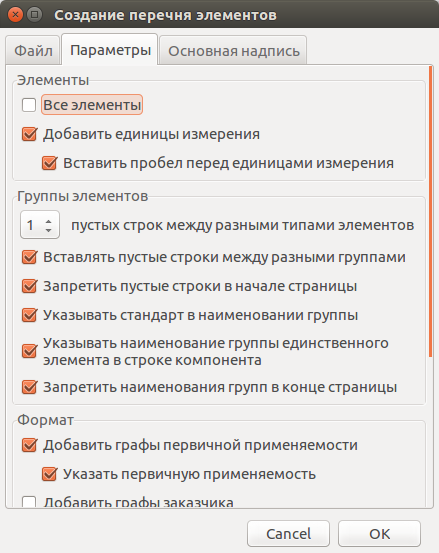
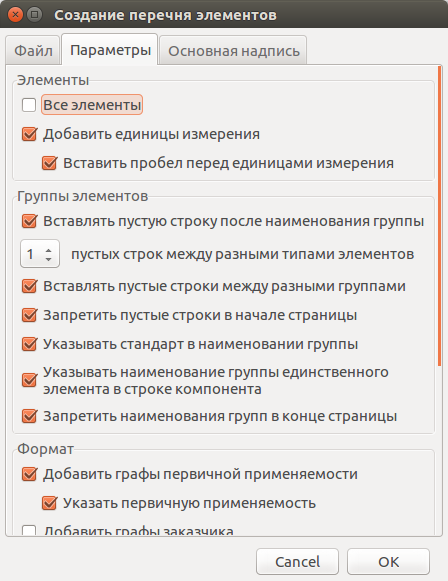
Added new option for adding empty line after group name.

Changed region(s): [[0.0, 0.0, 1.0, 0.9222], [0.5626, 0.9222, 0.9476, 1.0], [0.9772, 0.6148, 1.0, 0.6456]]

diff --git a/doc/user_manual.html b/doc/user_manual.html
@@ -2019,6 +2019,11 @@ LibreOffice Calc. А вот LibreOffice Writer такой функциональ
 часть значения будет отделена пробелом от единиц измерения с множителем.</p>
 </li>
 <li>
+<p><strong><em>Вставлять пустую строку после наименования группы</em></strong>&#8201;&#8212;&#8201;если этот
+параметр установлен, то между наименованием группы и первым её элементом будет
+вставляться одна пустая строка.</p>
+</li>
+<li>
 <p><strong><em>0..9 пустых строк между разными типами элементов</em></strong>&#8201;&#8212;&#8201;все компоненты в
 перечне группируются и сортируются по их обозначению. Между группами элементов
 с разным обозначением будет вставлено указанное число пустых строк.</p>
@@ -2660,7 +2665,7 @@ LibreOffice Calc. А вот LibreOffice Writer такой функциональ
 </div>
 <div id="footer">
 <div id="footer-text">
-Редакция от 2018-05-08 14:48:56 EEST
+Редакция от 2018-05-08 19:38:31 EEST
 </div>
 </div>
 </body>

diff --git a/complist.py b/complist.py
@@ -68,6 +68,7 @@ class CompList():
         self.all_components = False
         self.add_units = False
         self.space_before_units = False
+        self.empty_row_after_name = False
         self.empty_rows_after_group = 1
         self.empty_rows_everywhere = False
         self.prohibit_empty_rows_on_top = False
@@ -992,6 +993,9 @@ class CompList():
                                 for group_name_with_gost in group_names_with_gost:
                                     group_name_with_gost = self._get_unescaped_text(group_name_with_gost)
                                     csv_writer.writerow([u'', group_name_with_gost, u'', u''])
+                                # Empty row after group name
+                                if self.empty_row_after_name == True:
+                                    csv_writer.writerow(empty_row)
                                 # Write to table prepared components
                                 for comp in components:
                                     # Write component into list
@@ -1002,6 +1006,9 @@ class CompList():
                                 continue
                             else:
                                 csv_writer.writerow([u'', group_name, u'', u''])
+                                # Empty row after group name
+                                if self.empty_row_after_name == True:
+                                    csv_writer.writerow(empty_row)
 
                     for comp in group:
                         # Write component into list
@@ -1129,6 +1136,10 @@ class CompList():
                                 underline=self.underline_group_name
                                 )
                             self._next_line()
+                        # Empty row after group name
+                        if self.empty_row_after_name == True:
+                            if not (self.prohibit_empty_rows_on_top == True and self._cur_line == 1):
+                                self._next_line()
                         # Write to table prepared components
                         for comp in components:
                             # Write component into list
@@ -1149,6 +1160,10 @@ class CompList():
                             underline=self.underline_group_name
                             )
                         self._next_line()
+                        # Empty row after group name
+                        if self.empty_row_after_name == True:
+                            if not (self.prohibit_empty_rows_on_top == True and self._cur_line == 1):
+                                self._next_line()
 
             for comp in group:
                 # Write component into list

diff --git a/gui.py b/gui.py
@@ -871,18 +871,23 @@ class CompListDialog ( wx.Dialog ):
 		
 		sizer_groups = wx.StaticBoxSizer( wx.StaticBox( self.option_scrolledwindow, wx.ID_ANY, u"Группы элементов" ), wx.VERTICAL )
 		
+		self.checkbox_empty_row_after_name = wx.CheckBox( sizer_groups.GetStaticBox(), wx.ID_ANY, u"Вставлять пустую строку после наименования группы", wx.DefaultPosition, wx.DefaultSize, 0 )
+		self.checkbox_empty_row_after_name.SetToolTipString( u"Если параметр отмечен, то между наименованием группы и первы её элементом будет вставлена одна пустая строка." )
+		
+		sizer_groups.Add( self.checkbox_empty_row_after_name, 0, wx.ALL, 5 )
+		
 		sizer_empty_rows_groups = wx.BoxSizer( wx.HORIZONTAL )
 		
 		choice_after_groupsChoices = [ u"0", u"1", u"2", u"3", u"4", u"5", u"6", u"7", u"8", u"9" ]
 		self.choice_after_groups = wx.Choice( sizer_groups.GetStaticBox(), wx.ID_ANY, wx.DefaultPosition, wx.DefaultSize, choice_after_groupsChoices, 0 )
 		self.choice_after_groups.SetSelection( 1 )
-		sizer_empty_rows_groups.Add( self.choice_after_groups, 0, wx.ALL, 5 )
+		sizer_empty_rows_groups.Add( self.choice_after_groups, 0, wx.BOTTOM|wx.RIGHT|wx.LEFT, 5 )
 		
 		self.empty_rows_groups_label = wx.StaticText( sizer_groups.GetStaticBox(), wx.ID_ANY, u"пустых строк между разными типами элементов", wx.DefaultPosition, wx.DefaultSize, 0 )
 		self.empty_rows_groups_label.Wrap( -1 )
 		self.empty_rows_groups_label.SetToolTipString( u"Между элементами с разным обозначением будет вставлено указанное число пустых строк." )
 		
-		sizer_empty_rows_groups.Add( self.empty_rows_groups_label, 0, wx.ALL|wx.ALIGN_CENTER_VERTICAL, 5 )
+		sizer_empty_rows_groups.Add( self.empty_rows_groups_label, 0, wx.ALIGN_CENTER_VERTICAL|wx.BOTTOM|wx.RIGHT|wx.LEFT, 5 )
 		
 		
 		sizer_groups.Add( sizer_empty_rows_groups, 1, wx.EXPAND, 5 )
